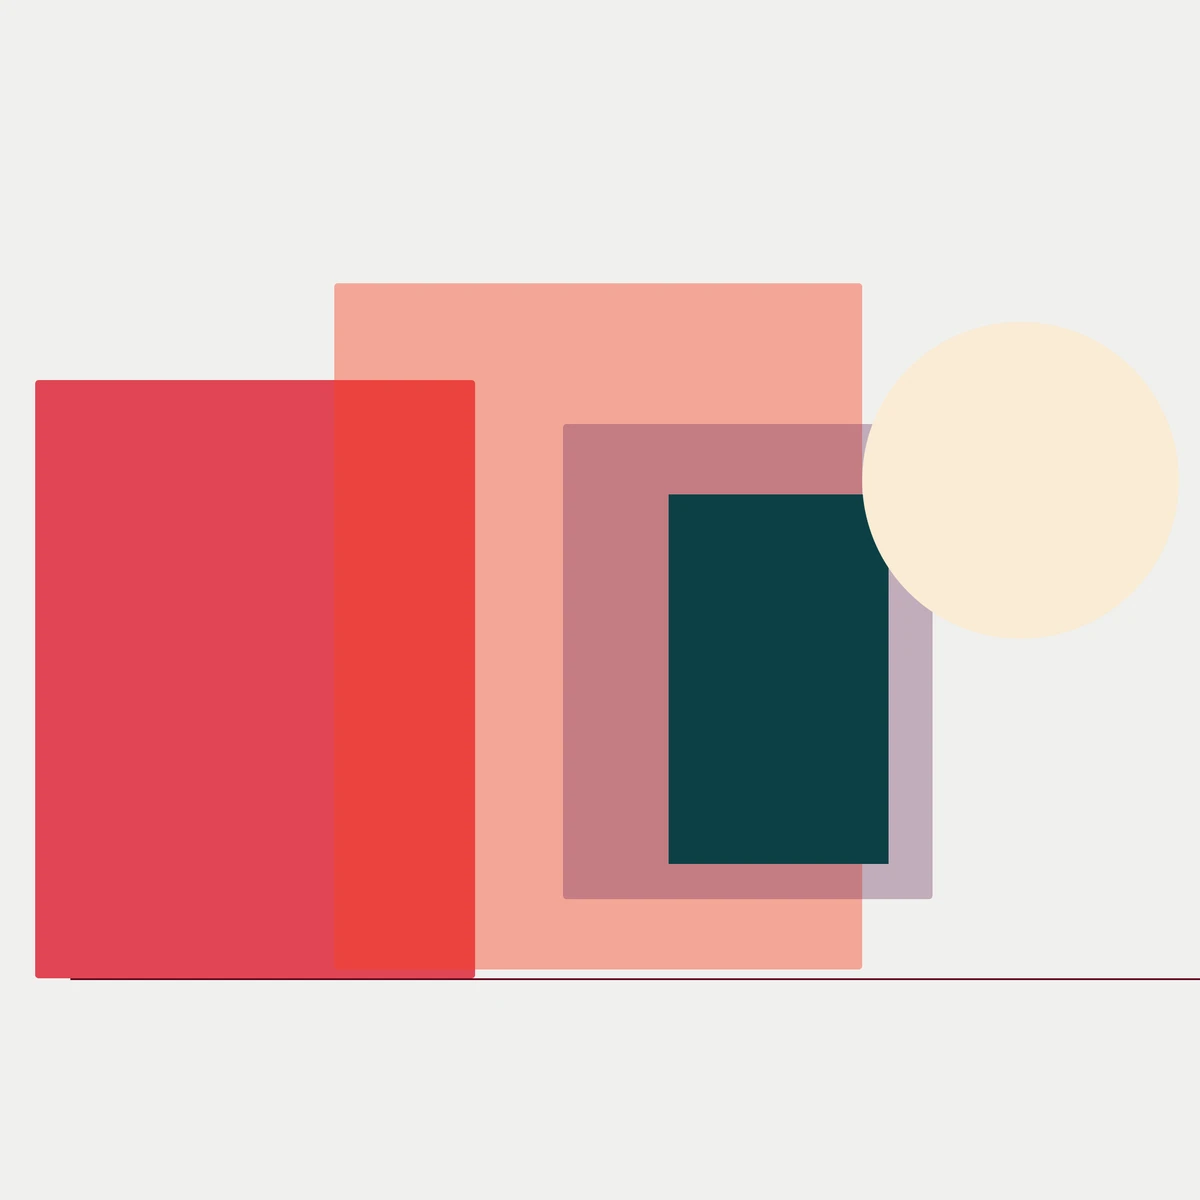
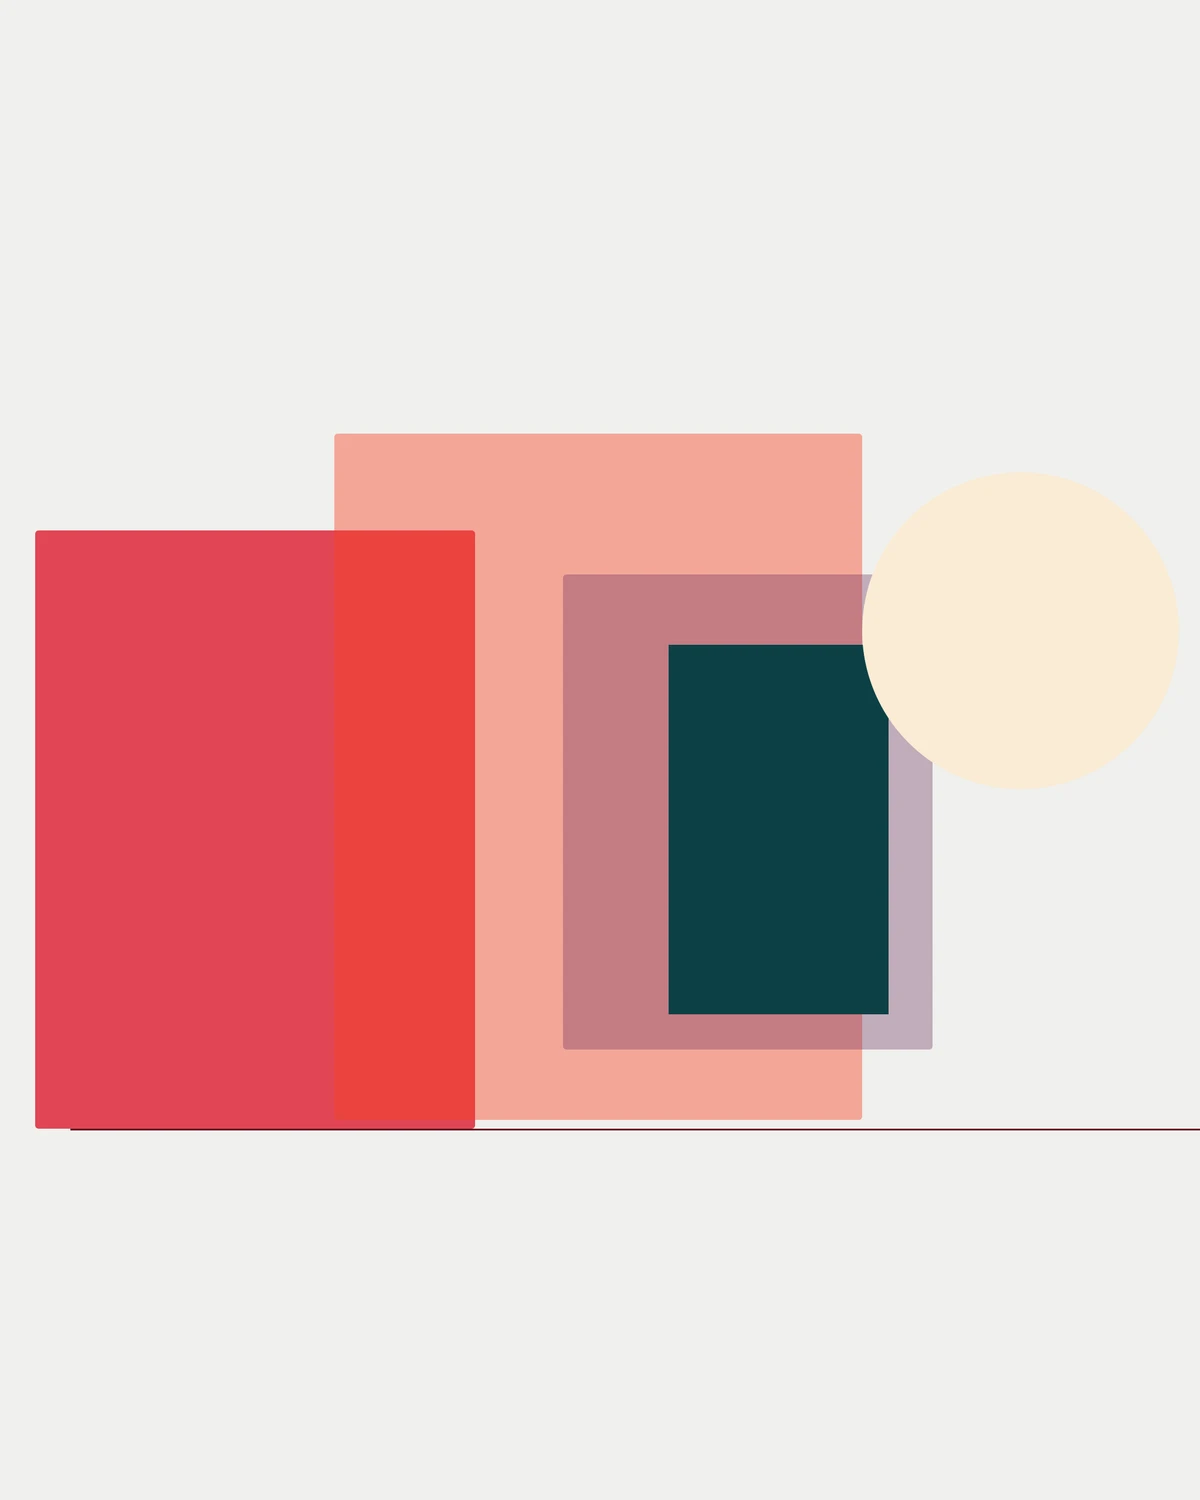
seed: list the Figma demo exhibitions first and on view
Damien Hirst and Yoo Youngkuk now end on 2027-02-28 instead of their
past board dates, so Home shows them under On view. The older demo
exhibitions start on 2026-01-01 so Home (newest start first) lists the
three Figma ones before them. Covers are re-rendered at 4:5 to match
the rest of the grid, under new image ids so the importer replaces the
square ones.

Changed region(s): [[0.0308, 0.6783, 0.8017, 0.8325], [0.0308, 0.2158, 0.74, 0.37], [0.4625, 0.2467, 0.9867, 0.4625]]

diff --git a/src/server/db/seed/demo/content-demo.ts b/src/server/db/seed/demo/content-demo.ts
@@ -3,6 +3,7 @@ import type { ContentPackage } from "../content";
 // Demo exhibitions with original monochrome artwork, for showing STILL off.
 // Not part of the default seed: import by hand with `npm run db:seed src/server/db/seed/demo`.
 // It upgrades forms-of-stillness and quiet-rooms in place and adds tidal-archive and breath-of-ink.
+// They start on 2026-01-01 so Home (newest start first) lists the Figma demo exhibitions before them.
 const pkg: ContentPackage = {
   "institution": {
     "code": "still-museum",
@@ -103,7 +104,7 @@ const pkg: ContentPackage = {
           }
         ]
       },
-      "startDate": "2026-09-01",
+      "startDate": "2026-01-01",
       "endDate": "2027-02-28",
       "status": "PUBLISHED",
       "ambienceEnabled": true,
@@ -254,7 +255,7 @@ const pkg: ContentPackage = {
           }
         ]
       },
-      "startDate": "2026-09-01",
+      "startDate": "2026-01-01",
       "endDate": "2027-02-28",
       "status": "PUBLISHED",
       "ambienceEnabled": true,
@@ -404,7 +405,7 @@ const pkg: ContentPackage = {
           }
         ]
       },
-      "startDate": "2026-09-01",
+      "startDate": "2026-01-01",
       "endDate": "2027-02-28",
       "status": "PUBLISHED",
       "ambienceEnabled": true,
@@ -554,7 +555,7 @@ const pkg: ContentPackage = {
           }
         ]
       },
-      "startDate": "2026-09-01",
+      "startDate": "2026-01-01",
       "endDate": "2027-02-28",
       "status": "PUBLISHED",
       "ambienceEnabled": true,

diff --git a/src/server/db/seed/figma-demo/exhibition.ts b/src/server/db/seed/figma-demo/exhibition.ts
@@ -21,7 +21,8 @@ const uuid = (group: "8000" | "a000", n: number) => `00000000-0000-4000-${group}
 
 export function exhibitionFromBoard(b: Board): ContentPackage["exhibitions"][number] {
   const sentences = b.sentences.map((content, i) => ({ id: uuid("8000", b.idBase + 1 + i), content }));
-  const coverId = uuid("a000", b.idBase + 1);
+  // A changed image file needs a new id: +1 was the first, square cover; +3 is the 4:5 one.
+  const coverId = uuid("a000", b.idBase + 3);
   const detailId = uuid("a000", b.idBase + 2);
   const images = `src/server/db/seed/figma-demo/images/${b.code}`;
   return {
@@ -45,7 +46,7 @@ export function exhibitionFromBoard(b: Board): ContentPackage["exhibitions"][num
     playlist: null,
     sentences,
     images: [
-      { id: coverId, file: `${images}/cover.webp`, altText: b.coverAlt, width: 1200, height: 1200 },
+      { id: coverId, file: `${images}/cover.webp`, altText: b.coverAlt, width: 1200, height: 1500 },
       { id: detailId, file: `${images}/detail-1.webp`, altText: b.detailAlt, width: 1032, height: 990 },
     ],
     cover: 0,

diff --git a/src/server/db/seed/figma-demo/content-1-mmca.ts b/src/server/db/seed/figma-demo/content-1-mmca.ts
@@ -31,7 +31,7 @@ const pkg: ContentPackage = {
       title: "데이미언 허스트",
       about: "Damien Hirst. MMCA Seoul, B1 Galleries 3, 4, 5, 2F MMCA Studio and Seoul Box.",
       startDate: "2026-03-20",
-      endDate: "2026-06-28",
+      endDate: "2027-02-28", // Board: 2026-06-28 (ended); extended so it shows as on view.
       sentences: [
         "끝을 마주할 때, 우리는 삶의 모양을 더 선명하게 바라본다.",
         "과학은 생명을 설명하고, 믿음은 삶의 의미를 묻는다.",

diff --git a/src/server/db/seed/figma-demo/content-2-sema.ts b/src/server/db/seed/figma-demo/content-2-sema.ts
@@ -13,7 +13,7 @@ const pkg: ContentPackage = {
       title: "유영국",
       about: "Yoo Youngkuk. Seoul Museum of Art, Seosomun Main Branch, 1F Galleries.",
       startDate: "2026-05-19",
-      endDate: "2026-10-25",
+      endDate: "2027-02-28", // Board: 2026-10-25 (ended); extended so it shows as on view.
       sentences: [
         "산은 바라보는 풍경이자, 마음속에 쌓이는 감각이다.",
         "멀리 있는 능선이 내 안의 기억과 겹쳐진다.",
